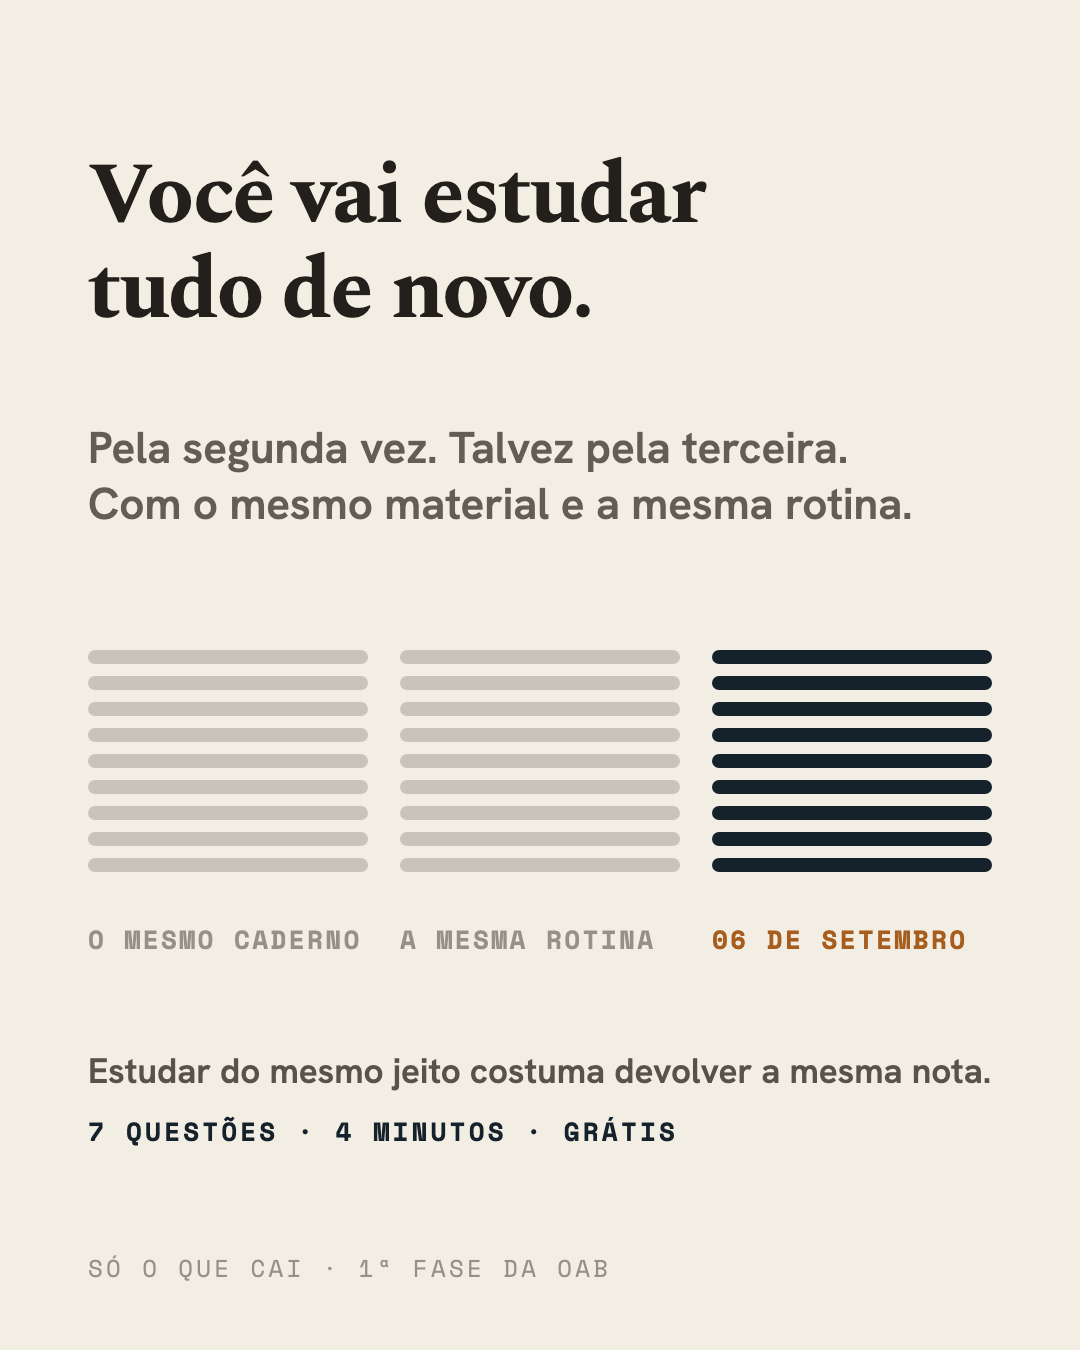
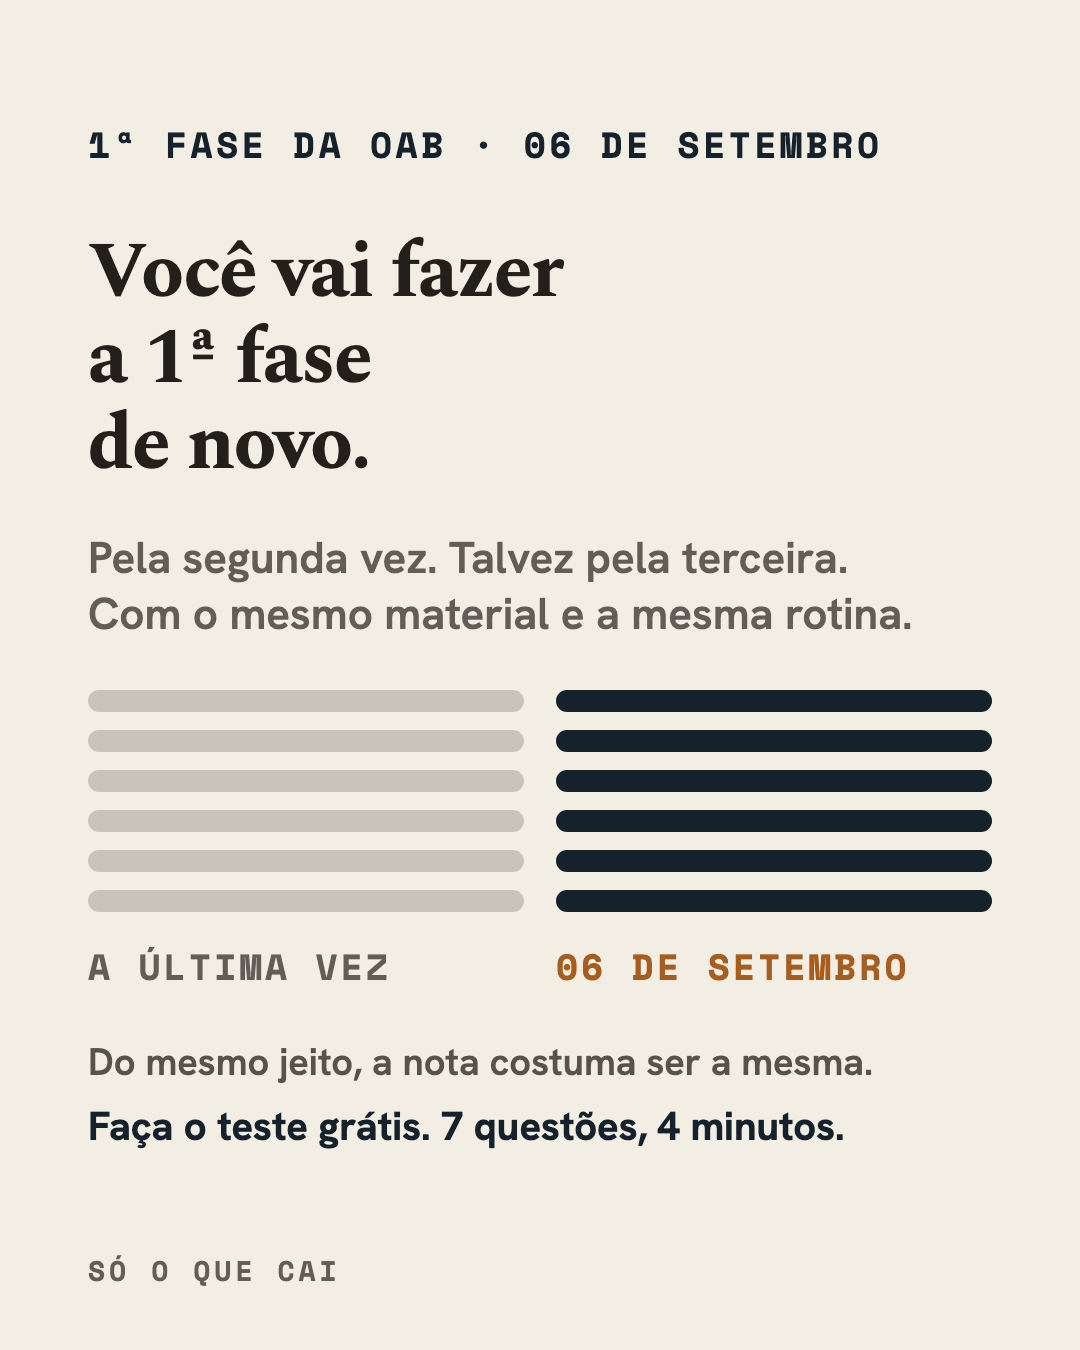
Revisao +45: as pecas passam a dizer o que estao oferecendo
Dupla senior (redatora 54, diretor de arte 58, especialista em publico maduro)
julgou a v1 pela regua de quem e o publico de verdade. Diagnostico: nao era
enigma, era elipse da oferta. As tres nomeavam a dor com precisao e nenhuma
dizia o que a pessoa ganha ao clicar. Terminavam a frase antes do verbo.

Comum as tres:
- olho tipografico no topo nomeando exame e data (a etiqueta cortada na v1
  nao filtrava, mas situava, e sem ela quem E o alvo tambem nao se reconhecia)
- a linha da oferta saiu da Space Mono com tracking (9,6px efetivos, silhueta
  de palavra destruida) e virou Hanken 700 a 40px com verbo
- piso de contraste: nenhum texto abaixo de 70% de tinta (5,65:1)

P1: a regua morreu. A 400px exigia tres saltos e o primeiro era insoluvel.
    Ficaram 39 e 40 confrontados, so o 40 legendado. Cinco saltos viraram um.
P2: manchete parou de dizer estudar, que confirmava a crenca que o produto
    existe para desmentir. Tres colunas viraram duas: filetes de 14px liam
    como skeleton loader.
P3: MATERIA/PRESSAO eram vocabulario de dentro de casa, viraram NAO SABIA e
    SABIA E ERREI. As caixas pararam de parecer tabela de planos.

diff --git a/criativos/p1-o-placar.html b/criativos/p1-o-placar.html
@@ -2,21 +2,33 @@
 <!--
   P1 · O PLACAR · público frio · campanha de Compra · 1080x1350
   ------------------------------------------------------------
-  Saída da sala de criação de 08/08/2026 (dupla copy + direção de arte).
-  Briefing: ../../soqc-prompt-sala-de-criacao.md
+  Versão 2, depois da revisão da dupla sênior (+45 anos), que julgou a v1 pela
+  régua de quem é o público de verdade. Briefing: ../../soqc-prompt-sala-de-criacao.md
 
-  A tese da peça: o filtro não é temático, é gramatical. "A sua nota" pressupõe
-  que existe uma, e existir uma é a definição exata do público. Quem nunca
-  prestou não completa a frase com nada da vida dela.
+  O QUE MUDOU E POR QUÊ
 
-  O dispositivo é a escala do edital, com o corte no 40 e o 39 encostado nele.
-  Os 11px de papel entre o número e a barra são a única coisa NÃO impressa na
-  peça: é a questão que faltou. O 39 é hipótese em segunda pessoa apoiada numa
-  escala pública (40 em 80 é fato do edital), não afirmação sobre resultado de
-  aluno.
+  1. A régua morreu. Na v1 o dispositivo era uma escala de 0 a 80 com o corte no
+     40 e o 39 encostado. No papel funciona; a 400px de largura (37%, que é como
+     o feed entrega) exigia três saltos empilhados e o primeiro era insolúvel:
+     reconhecer o trilho como eixo numérico dependia de ler "0" e "80" a 8,9px
+     efetivos e 2,72:1 de contraste. Ficaram os dois números confrontados, que é
+     o que sobrevive: 39 em ocre, 40 em marinho, e só o 40 legendado.
+     Cinco saltos viraram um.
 
-  Hierarquia declarada: 1º o número, que qualifica como forma, antes da leitura.
-  2º a frase. 3º o remate.
+  2. Voltou o olho tipográfico nomeando o exame. A v1 cortou o rótulo alegando
+     que a peça deve filtrar por artefato e não por rótulo. O corte confundiu
+     duas funções: o rótulo não filtra (quem filtra é o pretérito da manchete),
+     mas SITUA. Sem ele, a leitora que É o alvo também não reconhecia a prova
+     dela. Volta como cabeça de matéria, não como pílula colorida.
+
+  3. A linha da oferta saiu da monoespaçada. "7 QUESTÕES · 4 MINUTOS · GRÁTIS"
+     em Space Mono 26px com tracking dava 9,6px efetivos: a mono anula a variação
+     de largura e o tracking anula a proximidade, e juntos destroem a silhueta da
+     palavra, que é como o leitor maduro lê. Agora é Hanken 700 a 40px, com verbo:
+     o botão dentro da arte continua cortado, mas a FUNÇÃO dele volta em texto.
+
+  4. Piso de contraste. Nenhum texto abaixo de 70% de tinta (5,65:1). Os 45% e 55%
+     ficaram só em estrutura.
 
   Render: ./render.sh p1-o-placar.html
 -->
@@ -27,56 +39,46 @@
   .art{position:relative;width:1080px;height:1350px;overflow:hidden;background:var(--paper);
        font-family:'Hanken Grotesk',system-ui,sans-serif}
 
-  /* ---------- banda 1 · impacto: a escala do edital ---------- */
-  .rot-corte{position:absolute;left:566px;top:380px;font-family:'Space Mono',monospace;font-weight:700;
-             font-size:26px;color:var(--navy);letter-spacing:.07em}
-  .trilho{position:absolute;left:88px;top:470px;width:904px;height:10px;border-radius:5px;
-          background:rgba(35,31,26,.14)}
-  .tick{position:absolute;top:470px;width:2px;height:22px;background:rgba(35,31,26,.28)}
-  .tnum{position:absolute;top:502px;font-family:'Space Mono',monospace;font-size:24px;
-        color:rgba(35,31,26,.45)}
-  .corte{position:absolute;left:537px;top:427px;width:6px;height:96px;background:var(--navy);border-radius:3px}
-  .num39{position:absolute;right:554px;top:260px;height:210px;display:flex;align-items:flex-end}
-  .num39 span{font-family:'Spectral',Georgia,serif;font-weight:700;font-size:210px;line-height:.74;
-              color:var(--ocre);letter-spacing:-.02em}
+  /* olho: situa a peça. Registro de cabeça de matéria, não de selo de promoção. */
+  .olho{position:absolute;left:88px;top:118px;font-family:'Space Mono',monospace;
+        font-weight:700;font-size:36px;letter-spacing:.10em;color:var(--navy)}
+
+  /* ---------- banda 1 · impacto: dois números confrontados ---------- */
+  .n{position:absolute;top:300px;font-family:'Spectral',Georgia,serif;font-weight:700;
+     font-size:210px;line-height:.9;letter-spacing:-.02em}
+  .n39{left:230px;color:var(--ocre)}
+  .n40{left:540px;color:var(--navy)}
+  .divisor{position:absolute;left:472px;top:310px;width:6px;height:170px;
+           background:rgba(35,31,26,.50);border-radius:3px}
+  .rot40{position:absolute;left:540px;top:508px;font-family:'Space Mono',monospace;
+         font-weight:700;font-size:34px;letter-spacing:.10em;color:var(--navy)}
 
   /* ---------- banda 2 · a frase ---------- */
-  .frase{position:absolute;left:88px;top:720px;width:904px;font-family:'Spectral',Georgia,serif;
-         font-weight:700;font-size:68px;line-height:1.12;color:var(--ink);letter-spacing:-.015em}
+  .frase{position:absolute;left:88px;top:700px;width:904px;font-family:'Spectral',Georgia,serif;
+         font-weight:700;font-size:76px;line-height:1.12;color:var(--ink);letter-spacing:-.015em}
 
   /* ---------- banda 3 · base ---------- */
-  .remate{position:absolute;left:88px;top:1050px;width:904px;font-weight:600;font-size:35px;
+  .remate{position:absolute;left:88px;top:1040px;width:904px;font-weight:600;font-size:38px;
           line-height:1.2;color:rgba(35,31,26,.75)}
-  .selo{position:absolute;left:88px;top:1112px;font-family:'Space Mono',monospace;font-weight:700;
-        font-size:26px;color:var(--navy);letter-spacing:.12em}
-  .marca{position:absolute;left:88px;top:1250px;font-family:'Space Mono',monospace;font-size:24px;
-         color:rgba(35,31,26,.45);letter-spacing:.14em}
+  .selo{position:absolute;left:88px;top:1100px;font-weight:700;font-size:40px;color:var(--navy)}
+  .marca{position:absolute;left:88px;top:1250px;font-family:'Space Mono',monospace;font-weight:700;
+         font-size:28px;color:rgba(35,31,26,.70);letter-spacing:.14em}
 </style></head><body data-render="1080x1350">
 <div class="art">
 
-  <div class="rot-corte">LINHA DE CORTE · 40 EM 80</div>
+  <div class="olho">1ª FASE DA OAB · 06 DE SETEMBRO</div>
 
-  <div class="trilho"></div>
-  <div class="tick" style="left:88px"></div>
-  <div class="tick" style="left:201px"></div>
-  <div class="tick" style="left:314px"></div>
-  <div class="tick" style="left:427px"></div>
-  <div class="tick" style="left:653px"></div>
-  <div class="tick" style="left:766px"></div>
-  <div class="tick" style="left:879px"></div>
-  <div class="tick" style="left:991px"></div>
-  <!-- sem rótulo no 40: a barra marinha já é o 40, e o rótulo colidia com ela. -->
-  <div class="tnum" style="left:88px">0</div>
-  <div class="tnum" style="left:992px;transform:translateX(-100%)">80</div>
-  <div class="corte"></div>
-
-  <div class="num39"><span>39</span></div>
+  <div class="n n39">39</div>
+  <div class="divisor"></div>
+  <div class="n n40">40</div>
+  <!-- só o 40 é legendado: o 39 é explicado pela manchete logo abaixo. -->
+  <div class="rot40">LINHA DE CORTE</div>
 
   <div class="frase">Faltou uma questão.<br>Ninguém te disse qual.</div>
 
   <div class="remate">Um ponto de diferença custou quatro meses.</div>
-  <div class="selo">7 QUESTÕES · 4 MINUTOS · GRÁTIS</div>
+  <div class="selo">Faça o teste grátis. 7 questões, 4 minutos.</div>
 
-  <div class="marca">SÓ O QUE CAI · 1ª FASE DA OAB</div>
+  <div class="marca">SÓ O QUE CAI</div>
 </div>
 </body></html>

diff --git a/criativos/p2-a-repeticao.html b/criativos/p2-a-repeticao.html
@@ -2,20 +2,29 @@
 <!--
   P2 · A CENA DA REPETIÇÃO · público frio · campanha de Compra · 1080x1350
   -----------------------------------------------------------------------
-  Saída da sala de criação de 08/08/2026 (dupla copy + direção de arte).
+  Versão 2, depois da revisão da dupla sênior (+45 anos).
   Briefing: ../../soqc-prompt-sala-de-criacao.md
 
-  O filtro mora num advérbio de duas sílabas: "de novo". Só estuda tudo de novo
-  quem estudou tudo uma vez, e para ESTA prova. "Pela segunda vez. Talvez pela
-  terceira." é o sinal de saída para quem está na faculdade: ela lê e conclui,
-  corretamente, que a peça conta a história de outra pessoa.
+  O QUE MUDOU E POR QUÊ
 
-  Aqui a frase ganha a banda de impacto, e não o dispositivo: "de novo" qualifica
-  por leitura, e as três colunas idênticas só ganham sentido depois da frase.
+  1. A manchete deixou de dizer "estudar". "Você vai estudar tudo de novo"
+     CONFIRMA a crença que o produto inteiro existe para desmentir, e anima quem
+     quer mais estudo, que é justamente o clique que entra e vai embora sem ver o
+     preço. "Você vai fazer a 1ª fase de novo" troca a acusação pelo fato e
+     nomeia o exame no corpo grande, que é onde faltava.
 
-  As colunas são o MESMO plano três vezes, filete por filete. Os rótulos ficam em
-  segunda pessoa ("A VEZ ANTERIOR", "A ÚLTIMA VEZ") em vez de numerar as edições:
-  numerar presume o histórico dela, o rótulo não presume nada e filtra melhor.
+  2. Três colunas viraram duas. A leitora sênior não viu "o mesmo caderno três
+     vezes": viu skeleton loader, o desenho universal de página que não carregou.
+     Filetes de 14px viravam textura de 5,2px na entrega. Duas colunas de filetes
+     mais grossos dizem "de novo" melhor, e liberam largura para os rótulos, que
+     eram o que morria: "O MESMO CADERNO" a 26px dava 9,6px efetivos.
+
+  3. Os rótulos deixaram de ser coisas e voltaram a ser tempo. A ÚLTIMA VEZ e
+     06 DE SETEMBRO montam a sequência sozinhos; a data para de flutuar sem
+     legenda e para de ser lida como "tem uma live dia 6".
+
+  4. Olho, linha da oferta e piso de contraste: iguais aos das outras duas. A base
+     compartilhada é o que faz o teste ser atribuível.
 
   Render: ./render.sh p2-a-repeticao.html
 -->
@@ -26,49 +35,52 @@
   .art{position:relative;width:1080px;height:1350px;overflow:hidden;background:var(--paper);
        font-family:'Hanken Grotesk',system-ui,sans-serif}
 
+  .olho{position:absolute;left:88px;top:118px;font-family:'Space Mono',monospace;
+        font-weight:700;font-size:36px;letter-spacing:.10em;color:var(--navy)}
+
   /* ---------- banda 1 · impacto: a frase ---------- */
-  .frase{position:absolute;left:88px;top:150px;width:904px;font-family:'Spectral',Georgia,serif;
-         font-weight:700;font-size:86px;line-height:1.1;color:var(--ink);letter-spacing:-.02em}
-  .sub{position:absolute;left:88px;top:420px;width:904px;font-weight:600;font-size:44px;
+  .frase{position:absolute;left:88px;top:230px;width:904px;font-family:'Spectral',Georgia,serif;
+         font-weight:700;font-size:78px;line-height:1.1;color:var(--ink);letter-spacing:-.02em}
+  .sub{position:absolute;left:88px;top:530px;width:904px;font-weight:600;font-size:44px;
        line-height:1.28;color:rgba(35,31,26,.70)}
 
-  /* ---------- banda 2 · dispositivo: o mesmo plano, três vezes ---------- */
-  .cols{position:absolute;left:88px;top:650px;width:904px;display:flex;gap:32px}
-  .col{width:280px;display:flex;flex-direction:column;gap:12px}
-  .col i{display:block;height:14px;border-radius:7px;background:rgba(35,31,26,.20)}
+  /* ---------- banda 2 · dispositivo: o mesmo plano, outra vez ---------- */
+  .cols{position:absolute;left:88px;top:690px;width:904px;display:flex;gap:32px}
+  .col{width:436px;display:flex;flex-direction:column;gap:18px}
+  .col i{display:block;height:22px;border-radius:11px;background:rgba(35,31,26,.20)}
   .col.agora i{background:var(--navy)}
-  .rots{position:absolute;left:88px;top:920px;width:904px;display:flex;gap:32px;
-        font-family:'Space Mono',monospace;font-weight:700;font-size:26px;letter-spacing:.09em}
-  .rots span{width:280px;color:rgba(35,31,26,.45)}
+  .rots{position:absolute;left:88px;top:940px;width:904px;display:flex;gap:32px;
+        font-family:'Space Mono',monospace;font-weight:700;font-size:36px;letter-spacing:.09em}
+  .rots span{width:436px;color:rgba(35,31,26,.70)}
   .rots span.agora{color:var(--ocre)}
 
   /* ---------- banda 3 · base ---------- */
-  .remate{position:absolute;left:88px;top:1050px;width:904px;font-weight:600;font-size:35px;
+  .remate{position:absolute;left:88px;top:1040px;width:904px;font-weight:600;font-size:38px;
           line-height:1.2;color:rgba(35,31,26,.75)}
-  .selo{position:absolute;left:88px;top:1112px;font-family:'Space Mono',monospace;font-weight:700;
-        font-size:26px;color:var(--navy);letter-spacing:.12em}
-  .marca{position:absolute;left:88px;top:1250px;font-family:'Space Mono',monospace;font-size:24px;
-         color:rgba(35,31,26,.45);letter-spacing:.14em}
+  .selo{position:absolute;left:88px;top:1100px;font-weight:700;font-size:40px;color:var(--navy)}
+  .marca{position:absolute;left:88px;top:1250px;font-family:'Space Mono',monospace;font-weight:700;
+         font-size:28px;color:rgba(35,31,26,.70);letter-spacing:.14em}
 </style></head><body data-render="1080x1350">
 <div class="art">
 
-  <div class="frase">Você vai estudar<br>tudo de novo.</div>
+  <div class="olho">1ª FASE DA OAB · 06 DE SETEMBRO</div>
+
+  <div class="frase">Você vai fazer<br>a 1ª fase<br>de novo.</div>
   <div class="sub">Pela segunda vez. Talvez pela terceira.<br>Com o mesmo material e a mesma rotina.</div>
 
   <div class="cols">
-    <div class="col"><i></i><i></i><i></i><i></i><i></i><i></i><i></i><i></i><i></i></div>
-    <div class="col"><i></i><i></i><i></i><i></i><i></i><i></i><i></i><i></i><i></i></div>
-    <div class="col agora"><i></i><i></i><i></i><i></i><i></i><i></i><i></i><i></i><i></i></div>
+    <div class="col"><i></i><i></i><i></i><i></i><i></i><i></i></div>
+    <div class="col agora"><i></i><i></i><i></i><i></i><i></i><i></i></div>
   </div>
   <div class="rots">
-    <span>O MESMO CADERNO</span>
-    <span>A MESMA ROTINA</span>
+    <span>A ÚLTIMA VEZ</span>
     <span class="agora">06 DE SETEMBRO</span>
   </div>
 
-  <div class="remate">Estudar do mesmo jeito costuma devolver a mesma nota.</div>
-  <div class="selo">7 QUESTÕES · 4 MINUTOS · GRÁTIS</div>
+  <!-- Encurtado: a 38px a versão longa quebrava em duas linhas e batia no selo. -->
+  <div class="remate">Do mesmo jeito, a nota costuma ser a mesma.</div>
+  <div class="selo">Faça o teste grátis. 7 questões, 4 minutos.</div>
 
-  <div class="marca">SÓ O QUE CAI · 1ª FASE DA OAB</div>
+  <div class="marca">SÓ O QUE CAI</div>
 </div>
 </body></html>

diff --git a/criativos/p3-a-inversao.html b/criativos/p3-a-inversao.html
@@ -2,17 +2,28 @@
 <!--
   P3 · A INVERSÃO DA CRENÇA · público frio · campanha de Compra · 1080x1350
   ------------------------------------------------------------------------
-  Saída da sala de criação de 08/08/2026 (dupla copy + direção de arte).
+  Versão 2, depois da revisão da dupla sênior (+45 anos).
   Briefing: ../../soqc-prompt-sala-de-criacao.md
 
-  É a única das três que oferece absolvição em vez de acusação. Absolvição só
-  interessa a quem já foi condenado: "da última vez" é literalmente sem sentido
-  para quem nunca prestou, e é por isso que a versão curta ("Não foi falta de
-  estudo.") foi descartada — ela perde o passado, e o passado é o filtro.
+  O QUE MUDOU E POR QUÊ
 
-  Os dois blocos não levam porcentagem nem barra: número de eixo aqui viraria
-  alegação sobre resultado alheio. O argumento inteiro é a assimetria de peso
-  entre eles — o vazado é o que todo mundo vende, o sólido é o que ninguém vende.
+  1. Os rótulos saíram do vocabulário de dentro de casa. MATÉRIA e PRESSÃO são o
+     nome que o produto dá aos dois eixos; ninguém de fora sabe disso. NÃO SABIA e
+     SABIA E ERREI são a fala dela, e a segunda é reconhecimento imediato para
+     quem já sentou naquela prova.
+
+  2. As duas caixas pararam de parecer tabela de planos. O conjunto cantos
+     arredondados + par simétrico + filete de cor embaixo é literalmente o desenho
+     de "Básico / Premium", e a peça que existe para dizer QUE NÃO É CURSO estava
+     comunicando curso. Raio de 16 para 4, o filete ocre morreu, e entrou uma
+     linha acima do par amarrando o dispositivo à oferta.
+
+  3. Corpo e contraste dos rótulos. 28px a 55% de tinta dava 10,4px efetivos a
+     3,58:1: ilegível na entrega, e era metade do argumento da peça.
+
+  4. A manchete não se toca. "Estudar mais não resolveu da última vez" é a tese do
+     produto em uma linha: contradiz a crença dela, absolve sem bajular e não
+     promete nada. O filtro inteiro mora naquele pretérito.
 
   Render: ./render.sh p3-a-inversao.html
 -->
@@ -23,51 +34,54 @@
   .art{position:relative;width:1080px;height:1350px;overflow:hidden;background:var(--paper);
        font-family:'Hanken Grotesk',system-ui,sans-serif}
 
+  .olho{position:absolute;left:88px;top:118px;font-family:'Space Mono',monospace;
+        font-weight:700;font-size:36px;letter-spacing:.10em;color:var(--navy)}
+
   /* ---------- banda 1 · impacto: a frase ---------- */
-  .frase{position:absolute;left:88px;top:150px;width:904px;font-family:'Spectral',Georgia,serif;
+  .frase{position:absolute;left:88px;top:230px;width:904px;font-family:'Spectral',Georgia,serif;
          font-weight:700;font-size:86px;line-height:1.1;color:var(--ink);letter-spacing:-.02em}
 
-  /* ---------- banda 2 · dispositivo: os dois eixos, em peso desigual ---------- */
+  /* ---------- banda 2 · dispositivo: os dois motivos, em peso desigual ---------- */
+  .eixo{position:absolute;left:88px;top:570px;font-family:'Space Mono',monospace;
+        font-weight:700;font-size:32px;letter-spacing:.12em;color:var(--navy)}
   .blocos{position:absolute;left:88px;top:640px;width:904px;display:flex;gap:32px}
-  .b{width:436px;height:200px;border-radius:16px;box-sizing:border-box;padding:28px 30px;position:relative;
+  .b{width:436px;height:200px;border-radius:4px;box-sizing:border-box;padding:28px 30px;
      display:flex;flex-direction:column;justify-content:center}
-  .b.vazio{border:3px solid rgba(35,31,26,.25)}
+  .b.vazio{border:4px solid rgba(35,31,26,.50)}
   .b.cheio{background:var(--navy)}
-  .b .tit{font-family:'Space Mono',monospace;font-weight:700;font-size:28px;letter-spacing:.12em}
-  .b .sub{margin-top:14px;font-weight:600;font-size:30px;line-height:1.24}
-  .b.vazio .tit,.b.vazio .sub{color:rgba(35,31,26,.55)}
+  .b .tit{font-family:'Space Mono',monospace;font-weight:700;font-size:32px;letter-spacing:.12em}
+  .b .sub{margin-top:16px;font-weight:600;font-size:36px;line-height:1.22}
+  .b.vazio .tit,.b.vazio .sub{color:rgba(35,31,26,.70)}
   .b.cheio .tit,.b.cheio .sub{color:var(--paper)}
-  .filete{position:absolute;left:556px;top:846px;width:436px;height:6px;border-radius:3px;background:var(--ocre)}
 
   /* ---------- banda 3 · base ---------- */
-  .remate{position:absolute;left:88px;top:1050px;width:904px;font-weight:600;font-size:35px;
+  .remate{position:absolute;left:88px;top:1040px;width:904px;font-weight:600;font-size:38px;
           line-height:1.2;color:rgba(35,31,26,.75)}
-  .selo{position:absolute;left:88px;top:1112px;font-family:'Space Mono',monospace;font-weight:700;
-        font-size:26px;color:var(--navy);letter-spacing:.12em}
-  .marca{position:absolute;left:88px;top:1250px;font-family:'Space Mono',monospace;font-size:24px;
-         color:rgba(35,31,26,.45);letter-spacing:.14em}
+  .selo{position:absolute;left:88px;top:1100px;font-weight:700;font-size:40px;color:var(--navy)}
+  .marca{position:absolute;left:88px;top:1250px;font-family:'Space Mono',monospace;font-weight:700;
+         font-size:28px;color:rgba(35,31,26,.70);letter-spacing:.14em}
 </style></head><body data-render="1080x1350">
 <div class="art">
 
-  <!-- Três linhas, e não duas: em 86px "Estudar mais não resolveu" não cabe nos 904px
-       e quebrava sozinha num rag torto. Três linhas equilibradas preservam o corpo. -->
+  <div class="olho">1ª FASE DA OAB · 06 DE SETEMBRO</div>
+
   <div class="frase">Estudar mais<br>não resolveu<br>da última vez.</div>
 
+  <div class="eixo">O TESTE SEPARA OS DOIS</div>
   <div class="blocos">
     <div class="b vazio">
-      <div class="tit">MATÉRIA</div>
+      <div class="tit">NÃO SABIA</div>
       <div class="sub">resolve estudando</div>
     </div>
     <div class="b cheio">
-      <div class="tit">PRESSÃO</div>
+      <div class="tit">SABIA E ERREI</div>
       <div class="sub">estudar mais não resolve</div>
     </div>
   </div>
-  <div class="filete"></div>
 
   <div class="remate">Você nunca soube qual dos dois era o seu.</div>
-  <div class="selo">7 QUESTÕES · 4 MINUTOS · GRÁTIS</div>
+  <div class="selo">Faça o teste grátis. 7 questões, 4 minutos.</div>
 
-  <div class="marca">SÓ O QUE CAI · 1ª FASE DA OAB</div>
+  <div class="marca">SÓ O QUE CAI</div>
 </div>
 </body></html>
